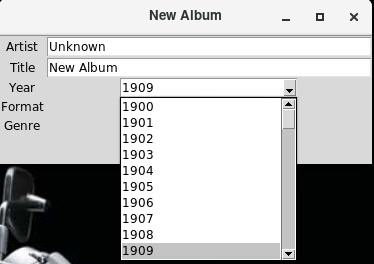
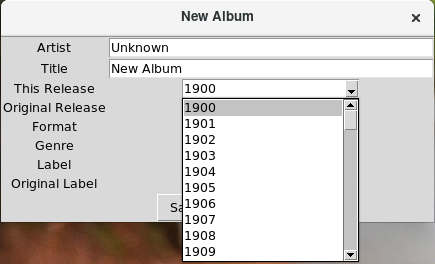
Documentation updates, procedural updates to implement feature

diff --git a/doc/chapter2.tex b/doc/chapter2.tex
@@ -20,7 +20,7 @@ screen (Figure
 \ref{fig:New album}).
 \begin{figure}[!ht]
  \centering
- \includegraphics[scale=1]{addAlbum.png}
+ \includegraphics[width=\textwidth]{addAlbum.png}
  \caption{New album}
  \label{fig:New album}
 \end{figure} 
@@ -40,12 +40,19 @@ table is populated with an entry
 \textit{\textbf{Rock}} 
 \footnote{See Part II, Tables for  full details of the Database structure.},
 as a convenience to get things started.  The 
-\textit{\textbf{Year}} 
-drop down is populated with every year from 1900 to the current year (see Figure 
+\textit{\textbf{Label}} and 
+\textit{\textbf{Original Label}}
+drop downs are populated with
+``\textit{\textbf{Enter/Choose a Record label}}''
+\footnote{This was originally populated with \textit{\textbf{``Unknown''}}, but it turns out that \textit{\textbf{``Unknown Records''}} actually did exist.}
+.  The 
+\textit{\textbf{This Release}} and
+\textit{\textbf{Original Release}}
+drop downs are populated with every year from 1900 to the current year (see Figure 
 \ref{fig:Year selection}).
 \begin{figure}[!ht]
  \centering
- \includegraphics[scale=1]{yearDropdown.png}
+ \includegraphics[width=\textwidth]{yearDropdown.png}
  \caption{Year selection}
  \label{fig:Year selection}
 \end{figure}
@@ -60,14 +67,14 @@ Now our main screen should look like Figure
  \caption{First album entered}
  \label{fig:First album entered}
 \end{figure}
-but really that's not much use to us, unless of course you have an album from 1900, on CD, in the rock genre, by a group called 'Unknown', entitled 'New Album'.  So let's change those details to something sensible. Click on the album name and you should see the
+but really that's not much use to us, unless of course you have an album from 1900, on CD, in the rock genre, by a group called ``Unknown'', entitled ``New Album''.  So let's change those details to something sensible. Click on the album name and you should see the
 \textit{\textbf{New Album}}
 screen (Figure 
 \ref{fig:New album})
 again.  Complete the details as shown in Figure
 \ref{fig:Sgt. Pepper's Lonely Hearts Club Band}
 \begin{figure}[!ht]
- \includegraphics[scale=1]{battlespepper.png}
+ \includegraphics[width=\textwidth]{battlespepper.png}
  \caption{Sgt. Pepper's Lonely Hearts Club Band}
  \label{fig:Sgt. Pepper's Lonely Hearts Club Band}
 \end{figure}
@@ -93,7 +100,7 @@ Looking at the main screen it seems we messed up the Artist name (unless the Bea
  \label{fig:Edit artist}
 \end{figure} 
 \newpage
-Change the entries to 'Beatles', or 'The Beatles' if you prefer, see Figure
+Change the entries to ``Beatles'', or ``The Beatles'' if you prefer, see Figure
 \ref{fig:Corrected artist}
 \begin{figure}[!ht]
  \includegraphics[scale=1]{editArtist2.png}
@@ -109,7 +116,120 @@ and click
  \caption{The updated start screen}
  \label{fig:Updated start screen}
 \end{figure} 
+
+You might have noticed that we left the two
+\textit{\textbf{Label}}
+entries unchanged, let's fix that now so that our information is complete.  Click on the album name and you should see the
+\textit{\textbf{New Album}}
+screen (Figure 
+\ref{fig:New album})
+again.  Complete the details as shown in Figure
+\ref{fig:Add the record label}
+\begin{figure}[!ht]
+ \includegraphics[width=\textwidth]{pepperlabel.png}
+ \caption{Add the record label}
+ \label{fig:Add the record label}
+\end{figure}
+and click 
+\textbf{\textit{Save}}.
+
+\newpage
+Select the 
+\textit{\textbf{Add Album}}
+button, click on the down arrow to the left of the
+\textit{\textbf{Label}}
+entry box and you should see something like Figure
+\ref{fig:Label selection}
+\begin{figure}[!ht]
+ \includegraphics[width=\textwidth]{labelDropdown.png}
+ \caption{Label selection}
+ \label{fig:Label selection}
+\end{figure} 
+, every new record label you enter will be added to this list for selection on further additions to the library.  The
+\textbf{\textit{Format}} and
+\textbf{\textit{Genre}}
+lists work in the same way.
+
+\subsection{A word about release dates}
+The two entries
+\textbf{\textit{This Release}} and
+\textbf{\textit{Original Release}}
+are provided for quite specific reasons, and
+\textbf{\textit{Original Release}}
+plays an important role in the display of albums on the front page, indeed in the display of albums within an artists catalogue.
+\textbf{\textit{This Release}}
+is intended to be the release date of the specific medium referred to in this entry, whereas
+\textbf{\textit{Original Release}}
+should be the date that the recorded work was first released, as shown in Figure
+\ref{fig:releaseDates}.
+\begin{figure}[!ht]
+ \includegraphics[width=\textwidth]{releaseDates.png}
+ \caption{An example of release date usage}
+ \label{fig:releaseDates}
+\end{figure} 
+
+Albums are listed in
+\textbf{\textit{Original Release}}
+date order.
+
 \newpage
 \section{Artists}
+\label{sect:artists}
+Artists are added to the database by entering album details, if the artist is not already in the database then they will be added.  You should maintain the sort field of the artists entry by double clicking the artist name from the front screen; this field is used to display the artists in alphabetical order. Figure
+\ref{fig:exampleOfArtistSort} demonstrates.
+\begin{figure}[!ht]
+ \includegraphics[width=\textwidth]{exampleOfArtistSort.png}
+ \caption{An example of the artist sort field}
+ \label{fig:exampleOfArtistSort}
+\end{figure} 
+
 \section{CSV}
 \label{sect:csv}
+The final method of inputting data to the database is by bulk loading details from a
+\textbf{C}omma 
+\textbf{S}eparated
+\textbf{V}alues
+file (
+\textbf{CSV}).
+As the name implies the data is held in a plain text file with a comma
+(\textbf{,})
+between each item.
+\textbf{Mucollib}
+will import data records from a CSV file named ``Music.csv''
+\footnote{``Music.csv'' is currently hard-coded in the program.}
+.  This option is offered when the program is first run and it does not find its database
+(\textbf{music.db}), 
+as shown in Figure 
+\ref{fig:No database found}.
+\begin{figure}[!ht]
+  \includegraphics[width=\textwidth]{firstRun.png}
+  \caption{No database found on first run}
+  \label{fig:No database found}
+\end{figure}
+\newpage
+The \textbf{CSV} file is subject to certain rules:
+\begin{itemize}
+\item each line represents one record to be entered into the database
+\item each comma-separated value is an item of data
+\item items containing commas (,) must be surrounded by quotation marks (``''), for example:
+\begin{itemize}
+\item \textit{John Martyn,``Martyn, John'',...}
+\end{itemize}
+\item the first line of the file is special, and is actually ignored by the data import, as it contains a description of the data item in that column, so:
+\begin{itemize}
+\item \textit{Artist,Sort,Album,Format,Genre,Year,Released,Label,OLabel}
+\footnote{These headings are those used by the author, feel free to use any heading that is meaningful to you, the line is discarded anyway.}
+\end{itemize}
+\end{itemize}
+
+So a typical csv file might contain data like the following:
+\begingroup
+\fontsize{8pt}{8pt}
+\begin{itemize}
+\item \textit{ArtistName,ArtistSort,AlbumName,Format,Genre,Year,Oyear,Label,Olabel}
+\item \textit{AC/DC,AC/DC,For Those About To Rock,CD,Rock,1994,1981,Atlantic,Atlantic}
+\item \textit{Tori Amos,"Amos, Tori",Under The Pink,CD,Rock,1994,1994,Atlantic,Atlantic}
+\item \textit{Joan Armatrading,"Armatrading, Joan",Joan Armatrading,Vinyl,Rock,1976,1976,A\&M,A\&M}
+\item \textit{Kevin Ayers,"Ayers, Kevin","June 1, 1974",Vinyl,Rock,1974,1974,Island,Island}
+\end{itemize}
+\endgroup

diff --git a/doc/tables.tex b/doc/tables.tex
@@ -13,23 +13,27 @@
 \hline 
 \multicolumn{1}{|c|}{\textbf{Column}} & \multicolumn{1}{|c|}{\textbf{Type}} & \multicolumn{1}{|c|}{\textbf{Null}} & \multicolumn{1}{|c|}{\textbf{Default}} & \multicolumn{1}{|c|}{\textbf{Links to}} \\
 \hline
-\textbf{\textit{id}} & int(11) & No &  &  \\ 
+\textbf{\textit{AlbumId}} & int(11) & No &  &  \\ 
 \hline 
 Name & varchar(120) & No &  &  \\ 
 \hline 
-Year & year(4) & No &  1900 &  \\ 
+Year & year(4) & No & 1900  &  \\ 
+%\hline 
+%CatNo & varchar(20) & Yes & NULL &  \\ 
 \hline 
 OrigYear & year(4) & No & 1900 &  \\ 
+%\hline 
+%OrigCatNo & varchar(20) & Yes & NULL &  \\ 
 \hline 
-ArtistId & int(11) & No &  & Artist (id) \\ 
+ArtistId & int(11) & No &  & Artist (ArtistId) \\ 
 \hline 
-FormatId & int(11) & No &  & Format (id) \\ 
+FormatId & int(11) & No &  & Format (FormatId) \\ 
 \hline 
-GenreId & int(11) & No &  & Genre (id) \\ 
+GenreId & int(11) & No &  & Genre (GenreId) \\ 
 \hline 
-LabelId & int(11) & No &  & Label (id) \\ 
+LabelId & int(11) & No &  & Label (LabelId) \\ 
 \hline 
-OrigLabelId & int(11) & No &  & Label (id) \\ 
+OrigLabelId & int(11) & No &  & Label (LabelId) \\ 
 \hline 
 \end{longtable}
 
@@ -61,7 +65,7 @@ OrigLabelId & int(11) & No &  & Label (id) \\
 \hline 
 \multicolumn{1}{|c|}{\textbf{Column}} & \multicolumn{1}{|c|}{\textbf{Type}} & \multicolumn{1}{|c|}{\textbf{Null}} & \multicolumn{1}{|c|}{\textbf{Default}} \\ 
 \hline
-\textbf{\textit{id}} & int(11) & No &  \\ 
+\textbf{\textit{ArtistId}} & int(11) & No &  \\ 
 \hline 
 Name & varchar(250) & No &  \\ 
 \hline 
@@ -78,7 +82,7 @@ Sort & varchar(250) & No &  \\
 \hline 
 \multicolumn{1}{|c|}{\textbf{Column}} & \multicolumn{1}{|c|}{\textbf{Type}} & \multicolumn{1}{|c|}{\textbf{Null}} & \multicolumn{1}{|c|}{\textbf{Default}} \\ 
 \hline
-\textbf{\textit{id}} & int(11) & No &  \\ 
+\textbf{\textit{FormatId}} & int(11) & No &  \\ 
 \hline 
 Name & varchar(20) & No &  \\ 
 \hline 
@@ -93,7 +97,7 @@ Name & varchar(20) & No &  \\
 \hline 
 \multicolumn{1}{|c|}{\textbf{Column}} & \multicolumn{1}{|c|}{\textbf{Type}} & \multicolumn{1}{|c|}{\textbf{Null}} & \multicolumn{1}{|c|}{\textbf{Default}} \\ 
 \hline
-\textbf{\textit{id}} & int(11) & No &  \\ 
+\textbf{\textit{GenreId}} & int(11) & No &  \\ 
 \hline 
 Name & varchar(45) & No &  \\ 
 \hline 
@@ -123,7 +127,7 @@ Name & varchar(45) & No &  \\
 \hline 
 \multicolumn{1}{|c|}{\textbf{Column}} & \multicolumn{1}{|c|}{\textbf{Type}} & \multicolumn{1}{|c|}{\textbf{Null}} & \multicolumn{1}{|c|}{\textbf{Default}} \\ 
 \hline
-\textbf{\textit{id}} & int(11) & No &  \\ 
+\textbf{\textit{LabelId}} & int(11) & No &  \\ 
 \hline 
 Name & varchar(45) & No &  \\ 
 \hline 
@@ -234,4 +238,3 @@ Name & varchar(45) & No &  \\
 %Song\_id & int(11) & No &  & Song (id) \\ 
 %\hline 
 %\end{longtable}
-

diff --git a/doc/chapter1.tex b/doc/chapter1.tex
@@ -5,7 +5,7 @@ At this moment in time installation is pretty basic, we have not packaged the pr
 \section{First run}
 When the program is run for the first time it will create a database, because one does not exist, and will present the screen in Figure 
 \ref{fig:First run}.
-\begin{figure}[!h]
+\begin{figure}[!ht]
   \includegraphics[width=\textwidth]{firstRun.png}
   \caption{First run}
   \label{fig:First run}
@@ -20,7 +20,7 @@ and you select
 Once past the first run screen, or if this is not the first time you have run the program, you will see the screen shown in Figure 
 \ref{fig:Start screen}.
 Which, of course, would ordinarily be populated with elements from your music library.
-\begin{figure}[!h]
+\begin{figure}[!ht]
   \includegraphics[width=\textwidth]{firstScreen.png}
   \caption{Start screen}
   \label{fig:Start screen}
@@ -32,7 +32,7 @@ The Artist selection bar, see Figure
 \ref{fig:Artist Selection bar},
 allows you to select a group of artists whose sort criteria begin with a specific letter of the alphabet.  The default selection is 
 \textbf{\textit{All}}.
-\begin{figure}[!h]
+\begin{figure}[!ht]
   \includegraphics[width=\textwidth]{artistSelectionBar.png}
   \caption{Artist Selection bar}
   \label{fig:Artist Selection bar}
@@ -41,7 +41,7 @@ allows you to select a group of artists whose sort criteria begin with a specifi
 \subsection{The add album button}
 The 
 \textbf{\textit{Add Album}}
-\begin{figure}[!h]
+\begin{figure}[!ht]
   \includegraphics[width=\textwidth]{albumButton.png}
   \caption{Add album button}
   \label{fig:Add album button}
@@ -54,7 +54,7 @@ allows the adding of album data.  More of which in Section
 \subsection{The close button}
 The 
 \textbf{\textit{Close}}
-\begin{figure}[!h]
+\begin{figure}[!ht]
   \includegraphics[width=\textwidth]{closeButton.png}
   \caption{Close button}
   \label{fig:Close button}

diff --git a/src/crud.py b/src/crud.py
@@ -53,7 +53,7 @@ def createDatabase(db):
     # insert start values for format, genre and label
     insertRow(db, 'Format(Name)', ("CD",))
     insertRow(db, 'Genre(Name)', ("Rock",))
-    insertRow(db, 'Label(Name)', ("Unknown",))
+    insertRow(db, 'Label(Name)', ("Enter/Choose a Record label",))
 
 def insertRow(db, table, data):
     sql = "INSERT INTO " + table + " VALUES("
@@ -84,10 +84,10 @@ def albumPage(con, db, listbox1, listbox2, myId):
     else:
         myAlbum = selectRow(db, 'AlbumId,Name,Year,OrigYear,ArtistId,FormatId,GenreId,LabelId,OrigLabelId', 'Album', 'AlbumId = ?', '', (myId,))
         myArtist = selectRow(db, 'Name', 'Artist', 'ArtistId = ?', '', (myAlbum[0][4],))
-    myFormat = selectRow(db, 'Name', 'Format', '', '', ())
-    myGenre = selectRow(db, 'Name', 'Genre', '', '', ())
-    myLabel = selectRow(db, 'Name', 'Label', '', '', ())
-    myOrigLabel = selectRow(db, 'Name', 'Label', '', '', ())
+    myFormat = selectComboValues(db, 'Name', 'Format')
+    myGenre = selectComboValues(db, 'Name', 'Genre')
+    myLabel = selectComboValues(db, 'Name', 'Label')
+    myOrigLabel = selectComboValues(db, 'Name', 'Label')
     
     # the window
     album = Toplevel()
@@ -169,6 +169,14 @@ def artistPage(con, db, listbox1, listbox2, myId):
     b2.grid(column = 1, row = 0)
     
 # Read
+def selectComboValues(db, field, table):
+    sql = "SELECT " + field + " FROM " + table
+    db.execute(sql)
+    data = []
+    for row in db.fetchall():
+        data.append(row[0])
+    return data
+
 def selectRow(db, field, table, condition, ordering, data):
     sql = "SELECT " + field + " FROM " + table
     if condition != '':

diff --git a/doc/Manual.tex b/doc/Manual.tex
@@ -16,6 +16,7 @@
            linkcolor=black,
            urlcolor=black,
            bookmarksopen=true}
+
 \begin{document}
 %----------------------------------------------------------------------------------------
 %	TITLE PAGE
